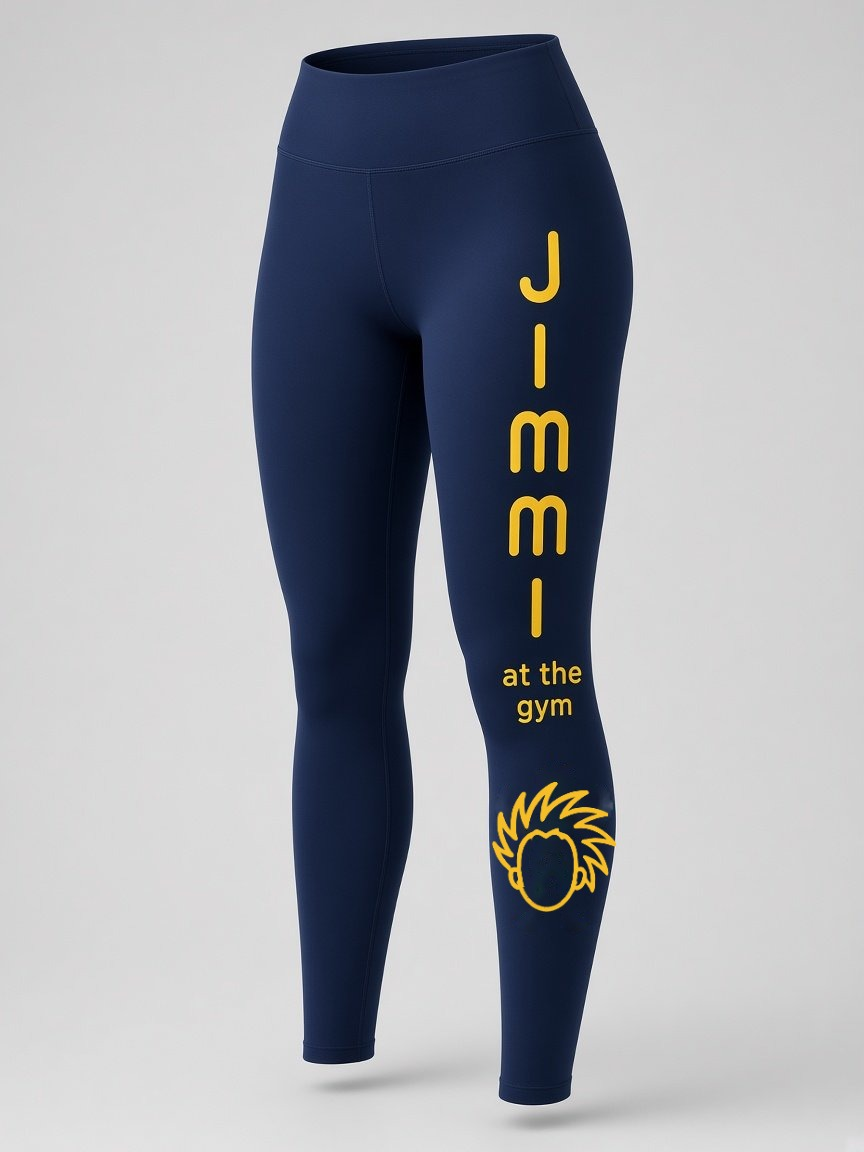
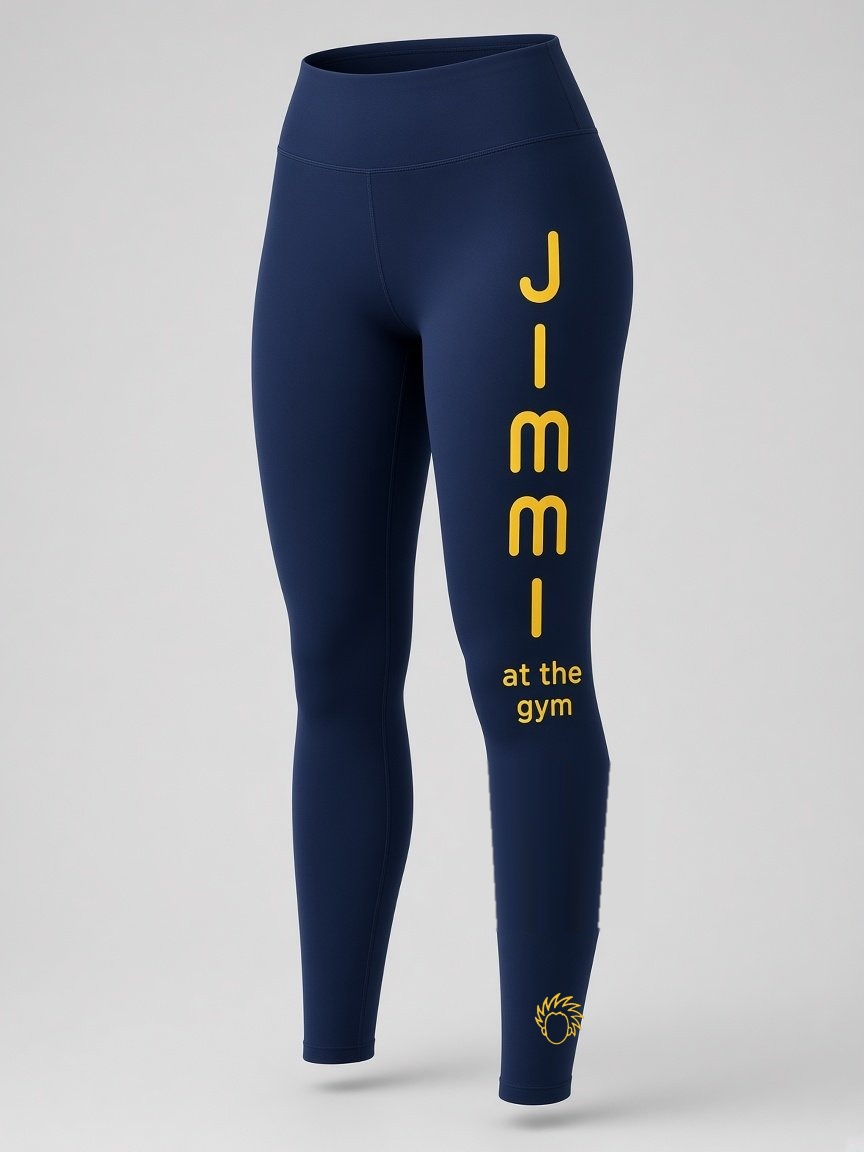
Navy & Yellow: approved ankle head

Changed region(s): [[0.5625, 0.6562, 0.7188, 0.8125], [0.625, 0.8438, 0.6875, 0.9062], [0.625, 0.7812, 0.6562, 0.8125]]

diff --git a/products.js b/products.js
@@ -12,7 +12,7 @@ window.JIMMI_PRODUCTS = [
   {"id": "ls3-black", "name": "Long Sleeve 3 — Black", "blurb": "White Buff Jimmi logo, red hair, red and white sleeve stripes.", "sku": "Preview · price TBD", "image": "assets/products/print/ls3-black-print.jpg", "etsyUrl": "https://www.etsy.com", "tag": "New · Long Sleeve"},
   {"id": "ls2-white", "name": "Long Sleeve 2 — White", "blurb": "Smooth jersey long sleeve with the Tee 4 design.", "sku": "Preview · price TBD", "image": "assets/products/print/ls2-white-print.jpg", "etsyUrl": "https://www.etsy.com", "tag": "New · Long Sleeve"},
   {"id": "tee6-black", "name": "Tee 6 — Black", "blurb": "White Buff Jimmi logo, red hair, printed red and white stripes over the shoulders and down the sleeves.", "sku": "Preview · price TBD", "image": "assets/products/print/tee6-black-print-v3.jpg", "etsyUrl": "https://www.etsy.com", "tag": "New · Tee"},
-  {"id": "leggings-navy-yellow", "name": "Navy & Yellow Leggings", "blurb": "Full-length high-waist leggings, yellow JIMMI wordmark down the leg, Jimmi head logo on the calf.", "sku": "Preview · price TBD", "image": "assets/products/print/leggings-A1.jpg", "etsyUrl": "https://www.etsy.com", "tag": "New · Women"},
+  {"id": "leggings-navy-yellow", "name": "Navy & Yellow Leggings", "blurb": "Navy leggings with a big yellow JIMMI and \"at the gym\" down the leg, plus a small yellow Jimmi head at the ankle.", "sku": "Preview · price TBD", "image": "assets/products/print/leggings-A1.jpg", "etsyUrl": "https://www.etsy.com", "tag": "New · Women"},
   {"id": "leggings-black-red", "name": "Black & Red 7/8 Leggings", "blurb": "Black 7/8 leggings with a thin red side stripe and a red \"Jimmi at the gym\" down the thigh. Clean and simple.", "sku": "Preview · price TBD", "image": "assets/products/print/leggings-A2-v2.jpg", "etsyUrl": "https://www.etsy.com", "tag": "New · Women"},
   {"id": "leggings-teal-coral", "name": "Teal & Coral Color-Block Leggings", "blurb": "Teal on top, coral below, with a teal JIMMI and \"at the gym\" down the lower leg. No logo, just the wordmark.", "sku": "Preview · price TBD", "image": "assets/products/print/leggings-A4-v2.jpg", "etsyUrl": "https://www.etsy.com", "tag": "New · Women"},
   {"id": "leggings-cobalt-orange", "name": "Cobalt & Orange 7/8 Leggings", "blurb": "7/8-length cobalt leggings, orange wordmark on the thigh, orange Jimmi head on the ankle, and \"If Jimmi can do it, anyone can.\" on the back waistband.", "sku": "Preview · price TBD", "image": "assets/products/print/leggings-A5.jpg", "etsyUrl": "https://www.etsy.com", "tag": "New · Women"}

diff --git a/sw.js b/sw.js
@@ -1,4 +1,4 @@
-const C='jimmi-v21';
+const C='jimmi-v22';
 self.addEventListener('install',e=>{e.waitUntil(caches.open(C).then(c=>c.addAll(['./','index.html','styles.css','products.js','manifest.webmanifest','icon-192.png','studio.html','studio.css','studio.js','assets/studio/logo-body.png','assets/studio/logo-hair.png','assets/studio/wordmark.png'])));self.skipWaiting();});
 self.addEventListener('activate',e=>{e.waitUntil(caches.keys().then(k=>Promise.all(k.filter(x=>x!==C).map(x=>caches.delete(x)))));self.clients.claim();});
 self.addEventListener('fetch',e=>{const r=e.request;if(r.method!=='GET'||r.headers.has('range'))return;
